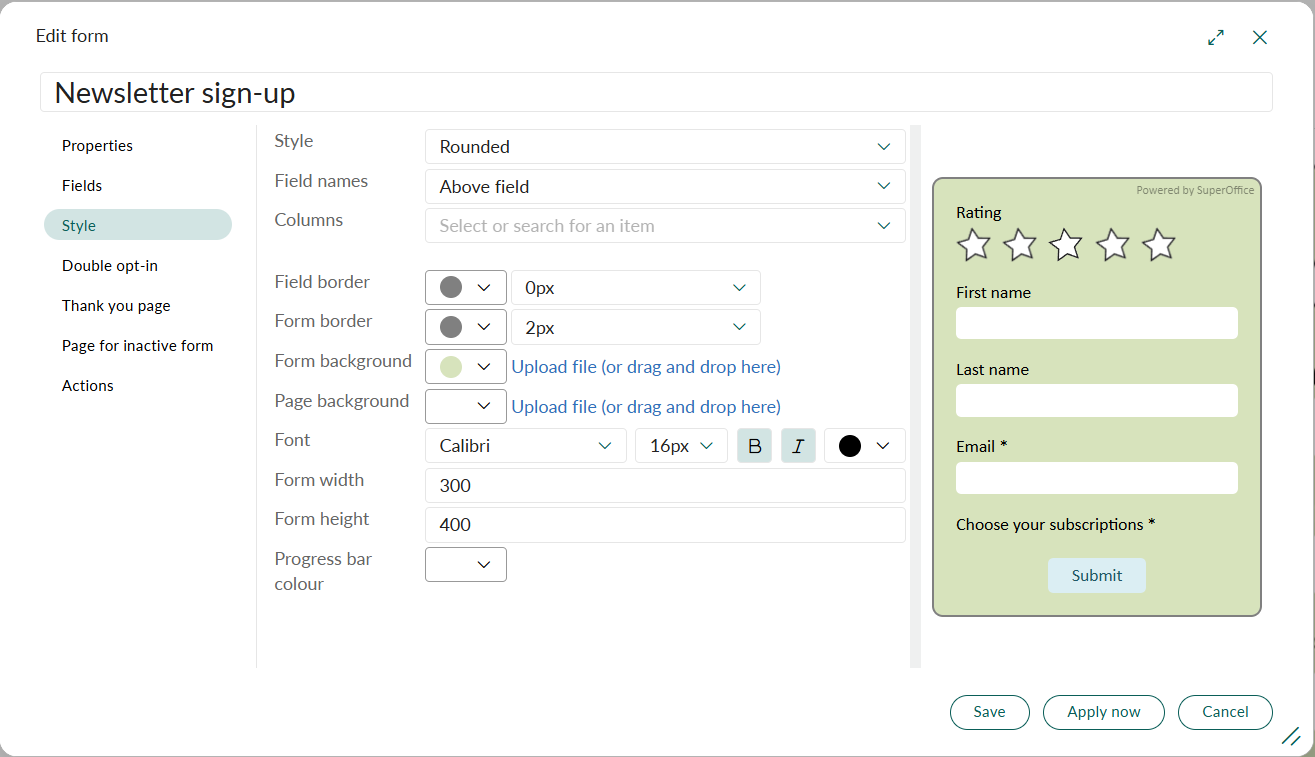
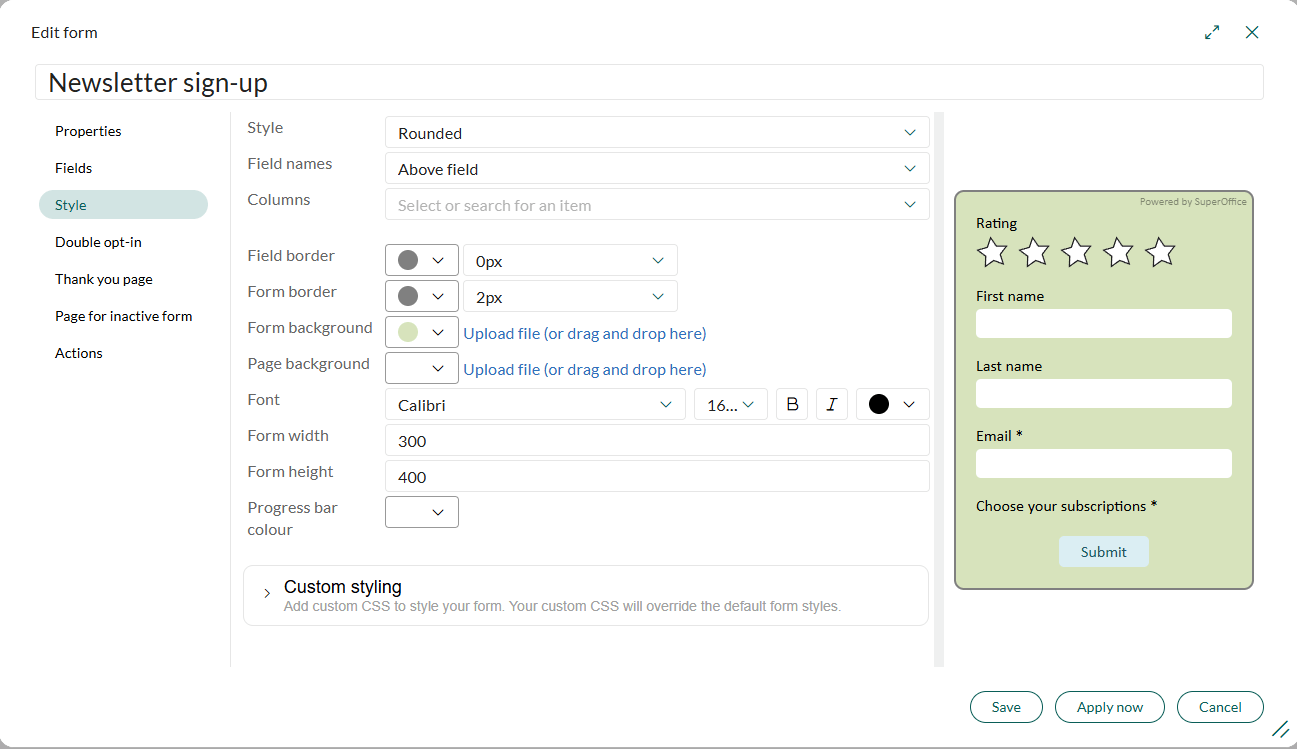
#2746 Initial draft of new custom styling section, incl screenshots

diff --git a/docs/en/marketing/forms/learn/create.md b/docs/en/marketing/forms/learn/create.md
@@ -2,10 +2,10 @@
 uid: help-en-form-create
 title: Create a new form
 description: Learn how you can create a web form in this how-to guide.
-keywords: form, form template, multi-page
-author: SuperOffice Product and Engineering
-date: 01.27.2026
-version: 11.9
+keywords: form, form template, multi-page, custom styling, css
+author: digitaldiina
+date: 03.17.2026
+version: 11.11
 content_type: howto
 category: marketing
 topic: forms
@@ -130,6 +130,53 @@ Select a **font** from the dropdown to apply it to all text in the form. The [av
 
 The chosen font applies to field labels and all other text elements within the form. You can also use the font size dropdown and formatting buttons to style all text.
 
+#### <a id="custom-style"></a>Custom styling
+
+For full control over how your form looks, you can write CSS in the **Custom styling** field. This lets you go beyond the standard editor options and match your brand guidelines precisely.
+
+![Form editor - custom styling with CSS -screenshot][img16]
+
+* **For experienced users:** Type or paste your CSS code directly in the field.
+* **For less advanced users:** Select a CSS class from the list, then add your code. This approach makes styling less overwhelming and gives you better control over what you are changing.
+
+The following CSS classes are available:
+
+| Class | Description |
+|---|---|
+| `.form-background` | The background or page area surrounding the form. |
+| `.form-form` | The background of the form container. |
+| `.form-table` | The table used to lay out the fields. |
+| `.form-required` | All required fields. |
+| `.form-id-[fieldName]` | A specific field. The selector must end with the field identifier. |
+| `.form-textarea` | Text area or request message fields. |
+| `.form-radio` | All radio button fields. |
+| `.form-checkbox` | All checkbox fields. |
+| `.form-dropdown` | All dropdown fields. |
+| `.form-date` | All date fields. |
+| `.form-datetime` | All date and time fields. |
+| `.form-text` | All text input fields. |
+| `.form-integer` | All integer fields. |
+| `.form-decimal` | All decimal fields. |
+| `.form-textblock` | All text block fields. |
+| `.form-image` | All image fields. |
+| `.form-button` | All button fields. |
+| `.form-uploadfile` | All file upload fields. |
+| `.form-rating` | All rating fields. |
+| `.form-rating-dice` | Rating fields of type "dice". |
+| `.form-rating-thumbs` | Rating fields of type "thumbs". |
+| `.form-rating-smiley` | Rating fields of type "smiley". |
+| `.form-rating-nps` | Rating fields of type "NPS". |
+| `.form-rating-stars` | Rating fields of type "stars". |
+| `.form-consent` | All consent fields. |
+| `.form-recaptcha` | All Google reCAPTCHA fields. |
+| `.form-input` | All input fields. |
+| `.form-pages` | The container of all pages in a multi-page form. |
+| `.form-page` | The container of a single page in a multi-page form. |
+| `.form-page-1` | The container of a specific page (1..n) in a multi-page form. |
+| `.form-pagefooter` | The footer of a multi-page form. |
+| `.form-pageprogress` | The progress bar of a multi-page form. |
+| `.form-label` | Field labels. |
+
 ### Activate double opt-in (optional)
 
 Double opt-in is an extra step in the form submission process that will guarantee that people submit the correct email address.
@@ -195,3 +242,4 @@ Here you can [define what happens when someone submits a form response][3].
 
 <!-- Referenced images -->
 [img15]: ../../../../media/loc/en/marketing/contact-me-form-properties.png
+[img16]: ../../../../media/loc/en/marketing/form-custom-styling.png

diff --git a/docs/de/marketing/forms/learn/create.md b/docs/de/marketing/forms/learn/create.md
@@ -4,8 +4,8 @@ title: Ein neues Formular erstellen
 description: In dieser Anleitung lernen Sie, wie Sie ein Web-Formular erstellen können.
 keywords: Formular, Web-Formular, Opt-in
 author: digitaldiina
-date: 01.27.2026
-version: 11.9
+date: 03.17.2026
+version: 11.11
 content_type: howto
 category: marketing
 topic: forms
@@ -130,6 +130,19 @@ Wählen Sie eine **Schriftart** aus dem Dropdown-Menü aus, um sie auf den gesam
 
 Die gewählte Schriftart gilt für Feldbezeichnungen und alle anderen Textelemente im Formular. Sie können auch das Dropdown-Menü für die Schriftgröße und die Formatierungsschaltflächen verwenden, um den gesamten Text zu gestalten.
 
+#### <a id="custom-style"></a>Benutzerdefinierte Designs
+
+Für die vollständige Kontrolle über das Aussehen Ihres Formulars können Sie CSS im Feld **Benutzerdefinierte Designs** schreiben. Damit gehen Sie über die Standardeditor-Optionen hinaus und können Ihre Markenrichtlinien präzise umsetzen.
+
+![Formular-Editor - benutzerdefiniertes Styling mit CSS -screenshot][img16]
+
+* **Für erfahrene Benutzer:** Geben Sie Ihren CSS-Code direkt in das Feld ein oder fügen Sie ihn ein.
+* **Für weniger erfahrene Benutzer:** Wählen Sie eine CSS-Klasse aus der Liste aus und fügen Sie Ihren Code hinzu. Dieser Ansatz macht das Styling weniger überwältigend und gibt Ihnen bessere Kontrolle darüber, was Sie ändern.
+
+Folgende CSS-Klassen sind verfügbar:
+
+[!include[CSS-Klassen](../../../../../common/includes/list-of-form-css-classes.md)]
+
 ### Doppeltes Opt-in aktivieren
 
 Double Opt-in ist ein zusätzlicher Schritt im Formularübermittlungsprozess, der sicherstellt, dass Personen die korrekte E-Mail-Adresse eingeben.
@@ -197,3 +210,4 @@ Hier können Sie [festlegen, was passiert, wenn jemand ein Formularantwort sende
 
 <!-- Referenced images -->
 [img15]: ../../../../media/loc/en/marketing/contact-me-form-properties.png
+[img16]: ../../../../media/loc/en/marketing/form-custom-styling.png

diff --git a/docs/sv/marketing/forms/learn/create.md b/docs/sv/marketing/forms/learn/create.md
@@ -4,8 +4,8 @@ title: Skapa nytt formulär
 description: Lär dig hur du kan skapa ett webbformulär i den här instruktionsguiden.
 keywords: formulär, webbformulär, anmäl dig
 author: digitaldiina
-date: 01.27.2026
-version: 11.9
+date: 03.17.2026
+version: 11.11
 content_type: howto
 category: marketing
 topic: forms
@@ -130,6 +130,19 @@ Välj ett **typsnitt** från rullgardinsmenyn för att tillämpa det på all tex
 
 Det valda teckensnittet gäller för fältetiketter och alla andra textelement i formuläret. Du kan också använda rullgardinsmenyn för teckenstorlek och formateringsknapparna för att styla all text.
 
+#### <a id="custom-style"></a>Anpassad formatering
+
+För full kontroll över hur ditt formulär ser ut kan du skriva CSS i fältet **Anpassad formatering**. Det låter dig gå bortom standardredigerarens alternativ och matcha dina varumärkesriktlinjer exakt.
+
+![Formulärredigerare - anpassad styling med CSS -screenshot][img16]
+
+* **För erfarna användare:** Skriv eller klistra in din CSS-kod direkt i fältet.
+* **För mindre avancerade användare:** Välj en CSS-klass från listan och lägg till din kod. Det här tillvägagångssättet gör styling mindre överväldigande och ger dig bättre kontroll över vad du ändrar.
+
+Följande CSS-klasser är tillgängliga:
+
+[!include[CSS-klasser](../../../../../common/includes/list-of-form-css-classes.md)]
+
 ### Aktivera dubbel anmälan
 
 Dubbel anmälan (opt-in) är ett extra steg i processen för formulärinlämning som garanterar att personer skickar in rätt e-postadress.
@@ -197,3 +210,4 @@ Här kan du [definiera vad som händer när någon skickar in ett svarsformulär
 
 <!-- Referenced images -->
 [img15]: ../../../../media/loc/en/marketing/contact-me-form-properties.png
+[img16]: ../../../../media/loc/en/marketing/form-custom-styling.png

diff --git a/docs/da/marketing/forms/learn/create.md b/docs/da/marketing/forms/learn/create.md
@@ -4,8 +4,8 @@ title: Opret en ny formular
 description: Få mere at vide om, hvordan du kan oprette en webformular, i denne vejledning.
 keywords: formular, webformular
 author: digitaldiina
-date: 01.27.2026
-version: 11.9
+date: 03.17.2026
+version: 11.11
 content_type: howto
 category: marketing
 topic: forms
@@ -130,6 +130,19 @@ Vælg en **skrifttype** fra rullemenuen for at anvende den på al tekst i formul
 
 Den valgte skrifttype gælder for feltetiketter og alle andre tekstelementer i formularen. Du kan også bruge rullemenu for skriftstørrelse og formateringsknapper til at style al tekst.
 
+#### <a id="custom-style"></a>Tilpasset styling
+
+For fuld kontrol over, hvordan din formular ser ud, kan du skrive CSS i feltet **Tilpasset styling**. Det giver dig mulighed for at gå ud over standardeditorindstillingerne og matche dine brandretningslinjer præcist.
+
+![Formularredigering - tilpasset styling med CSS -screenshot][img16]
+
+* **For erfarne brugere:** Skriv eller indsæt din CSS-kode direkte i feltet.
+* **For mindre avancerede brugere:** Vælg en CSS-klasse fra listen, og tilføj din kode. Denne fremgangsmåde gør styling mindre overvældende og giver dig bedre kontrol over, hvad du ændrer.
+
+Følgende CSS-klasser er tilgængelige:
+
+[!include[CSS-klasser](../../../../../common/includes/list-of-form-css-classes.md)]
+
 ### Aktivere dobbelt tilsagn (valgfrit)
 
 Dobbelt tilsagn (opt-in) er et ekstra trin i formularindsendelsesprocessen, der garanterer, at folk indsender den korrekte e-mailadresse.
@@ -197,3 +210,4 @@ Her kan du [definere, hvad der sker, når nogen sender et svar på formularen][3
 
 <!-- Referenced images -->
 [img15]: ../../../../media/loc/en/marketing/contact-me-form-properties.png
+[img16]: ../../../../media/loc/en/marketing/form-custom-styling.png

diff --git a/docs/nl/marketing/forms/learn/create.md b/docs/nl/marketing/forms/learn/create.md
@@ -4,8 +4,8 @@ title: Een nieuw formulier maken
 description: Leer hoe u een webformulier kunt maken in deze handleiding.
 keywords: formulier, opt-in
 author: digitaldiina
-date: 01.27.2026
-version: 11.9
+date: 03.17.2026
+version: 11.11
 content_type: howto
 category: marketing
 topic: forms
@@ -130,6 +130,19 @@ Selecteer een **lettertype** uit de vervolgkeuzelijst om het toe te passen op al
 
 Het gekozen lettertype is van toepassing op veldlabels en alle andere tekstelementen in het formulier. U kunt ook de vervolgkeuzelijst voor de lettergrootte en de opmaakknoppen gebruiken om alle tekst op te maken.
 
+#### <a id="custom-style"></a>Aangepaste stijlen
+
+Voor volledige controle over hoe uw formulier eruitziet, kunt u CSS schrijven in het veld **Aangepaste stijlen**. Hiermee gaat u verder dan de standaard editoropties en kunt u uw merkrichtlijnen nauwkeurig afstemmen.
+
+![Formulier-editor - aangepaste styling met CSS -screenshot][img16]
+
+* **Voor ervaren gebruikers:** Typ of plak uw CSS-code rechtstreeks in het veld.
+* **Voor minder gevorderde gebruikers:** Selecteer een CSS-klasse uit de lijst en voeg uw code toe. Deze aanpak maakt styling minder overweldigend en geeft u meer controle over wat u wijzigt.
+
+De volgende CSS-klassen zijn beschikbaar:
+
+[!include[CSS-klassen](../../../../../common/includes/list-of-form-css-classes.md)]
+
 ### Dubbele opt-in activeren
 
 Dubbele opt-in is een extra stap in het proces voor het indienen van formulieren die garandeert dat mensen het juiste e-mailadres indienen.
@@ -197,3 +210,4 @@ Hier kunt u [definiëren wat er gebeurt wanneer iemand een reactie op een formul
 
 <!-- Referenced images -->
 [img15]: ../../../../media/loc/en/marketing/contact-me-form-properties.png
+[img16]: ../../../../media/loc/en/marketing/form-custom-styling.png

diff --git a/docs/no/marketing/forms/learn/create.md b/docs/no/marketing/forms/learn/create.md
@@ -4,8 +4,8 @@ title: Opprette et nytt skjema
 description: Lær hvordan du kan opprette et nettskjema i denne veiledningen.
 keywords: skjema, webskjema, nettskjema, påmelding
 author: digitaldiina
-date: 01.27.2026
-version: 11.9
+date: 03.17.2026
+version: 11.11
 content_type: howto
 category: marketing
 topic: forms
@@ -130,6 +130,19 @@ Velg en **skrifttype** fra rullegardinlisten for å bruke den på all tekst i sk
 
 Den valgte skrifttypen gjelder for feltetiketter og alle andre tekstelementer i skjemaet. Du kan også bruke listen for skriftstørrelse og formateringsknappene for å style all tekst.
 
+#### <a id="custom-style"></a>Egendefinert utseende
+
+For full kontroll over hvordan skjemaet ditt ser ut, kan du skrive CSS i feltet **Egendefinert utseende**. Dette lar deg gå utover standardredigeringsalternativene og matche retningslinjene for merkevarebygging nøyaktig.
+
+![Skjemaredigering - egendefinert styling med CSS -screenshot][img16]
+
+* **For erfarne brukere:** Skriv eller lim inn CSS-koden direkte i feltet.
+* **For mindre avanserte brukere:** Velg en CSS-klasse fra listen, og legg til koden din. Denne fremgangsmåten gjør styling mindre overveldende og gir deg bedre kontroll over hva du endrer.
+
+Følgende CSS-klasser er tilgjengelige:
+
+[!include[CSS-klasser](../../../../../common/includes/list-of-form-css-classes.md)]
+
 ### Aktiver dobbel opt-in (valgfritt)
 
 Dobbel opt-in (bekreftelse) er et ekstra trinn i skjemainnsendingsprosessen som vil garantere at folk sender inn riktig e-postadresse.
@@ -197,3 +210,4 @@ Her kan du [definere hva som skjer når noen sender inn et skjemasvar][3].
 
 <!-- Referenced images -->
 [img15]: ../../../../media/loc/en/marketing/contact-me-form-properties.png
+[img16]: ../../../../media/loc/en/marketing/form-custom-styling.png

diff --git a/common/includes/list-of-form-css-classes.md b/common/includes/list-of-form-css-classes.md
@@ -1,0 +1,34 @@
+<!-- markdownlint-disable-file MD041 -->
+* `.form-background`
+* `.form-form`
+* `.form-table`
+* `.form-required`
+* `.form-id-[fieldName]`
+* `.form-textarea`
+* `.form-radio`
+* `.form-checkbox`
+* `.form-dropdown`
+* `.form-date`
+* `.form-datetime`
+* `.form-text`
+* `.form-integer`
+* `.form-decimal`
+* `.form-textblock`
+* `.form-image`
+* `.form-button`
+* `.form-uploadfile`
+* `.form-rating`
+* `.form-rating-dice`
+* `.form-rating-thumbs`
+* `.form-rating-smiley`
+* `.form-rating-nps`
+* `.form-rating-stars`
+* `.form-consent`
+* `.form-recaptcha`
+* `.form-input`
+* `.form-pages`
+* `.form-page`
+* `.form-page-1`
+* `.form-pagefooter`
+* `.form-pageprogress`
+* `.form-label`

diff --git a/docs/de/marketing/forms/learn/index.md b/docs/de/marketing/forms/learn/index.md
@@ -3,9 +3,9 @@ uid: help-de-forms
 title: Mit Formularen arbeiten
 description: SuperOffice Web-Formulare sind eine großartige Möglichkeit, Kundeninformationen und Rückmeldungen zu sammeln. Über Web-Formulare können die Besucher Ihrer Website mit Ihnen in Kontakt treten und ihre Personendetails hinterlassen.
 keywords: Formular, Formularübermittlung, doppeltes Opt-in
-author: Bergfrid Dias
-date: 09.26.2025
-version: 10.5
+author: digitaldiina
+date: 03.17.2026
+version: 11.11
 content_type: concept
 category: marketing
 topic: forms

diff --git a/docs/da/marketing/forms/learn/index.md b/docs/da/marketing/forms/learn/index.md
@@ -3,9 +3,9 @@ uid: help-da-forms
 title: Arbejde med formularer
 description: SuperOffice webformularer er en fantastisk måde at indsamle kundeoplysninger og feedback på. Webformularer giver de personer, der besøger dit websted, mulighed for at komme i kontakt med dig og efterlade deres kontaktoplysninger.
 keywords: formular, formularindsendelse, dobbelt tilsagn
-author: Bergfrid Dias
-date: 09.26.2025
-version: 10.5
+author: digitaldiina
+date: 03.17.2026
+version: 11.11
 content_type: concept
 category: marketing
 topic: forms

diff --git a/docs/sv/marketing/forms/learn/index.md b/docs/sv/marketing/forms/learn/index.md
@@ -3,9 +3,9 @@ uid: help-sv-forms
 title: Arbeta med formulär
 description: Webbformulär i SuperOffice är ett bra sätt att samla in kundinformation och återkoppling. Webbformulär gör det möjligt för personer som besöker din webbplats att komma i kontakt med dig och lämna sin kontaktinformation.
 keywords: formulär, formulärinlämnin, dubbel anmälan
-author: Bergfrid Dias
-date: 09.26.2025
-version: 10.5
+author: digitaldiina
+date: 03.17.2026
+version: 11.11
 content_type: concept
 category: marketing
 topic: forms

diff --git a/docs/nl/marketing/forms/learn/index.md b/docs/nl/marketing/forms/learn/index.md
@@ -3,9 +3,9 @@ uid: help-nl-forms
 title: Werken met formulieren
 description: SuperOffice-webformulieren zijn een geweldige manier om klantinformatie en feedback te verzamelen. Met webformulieren kunnen de mensen die uw website bezoeken contact met u opnemen en hun contactgegevens achterlaten.
 keywords: formulier, formulierverzending, dubbele opt-in
-author: Bergfrid Dias
-date: 09.26.2025
-version: 10.5
+author: digitaldiina
+date: 03.17.2026
+version: 11.11
 content_type: concept
 category: marketing
 topic: forms

diff --git a/docs/no/marketing/forms/learn/index.md b/docs/no/marketing/forms/learn/index.md
@@ -3,9 +3,9 @@ uid: help-no-forms
 title: Arbeide med skjemaer
 description: SuperOffice-webskjemaer er en flott måte å samle kundeinformasjon og tilbakemeldinger på. Med webskjemaer kan personer som besøker websiden din, komme i kontakt med deg og legge igjen kontaktinformasjonen sin.
 keywords: skjema, skjemainnsending, dobbel opt-in
-author: Bergfrid Dias
-date: 09.26.2025
-version: 10.5
+author: digitaldiina
+date: 03.17.2026
+version: 11.11
 content_type: concept
 category: marketing
 topic: forms
